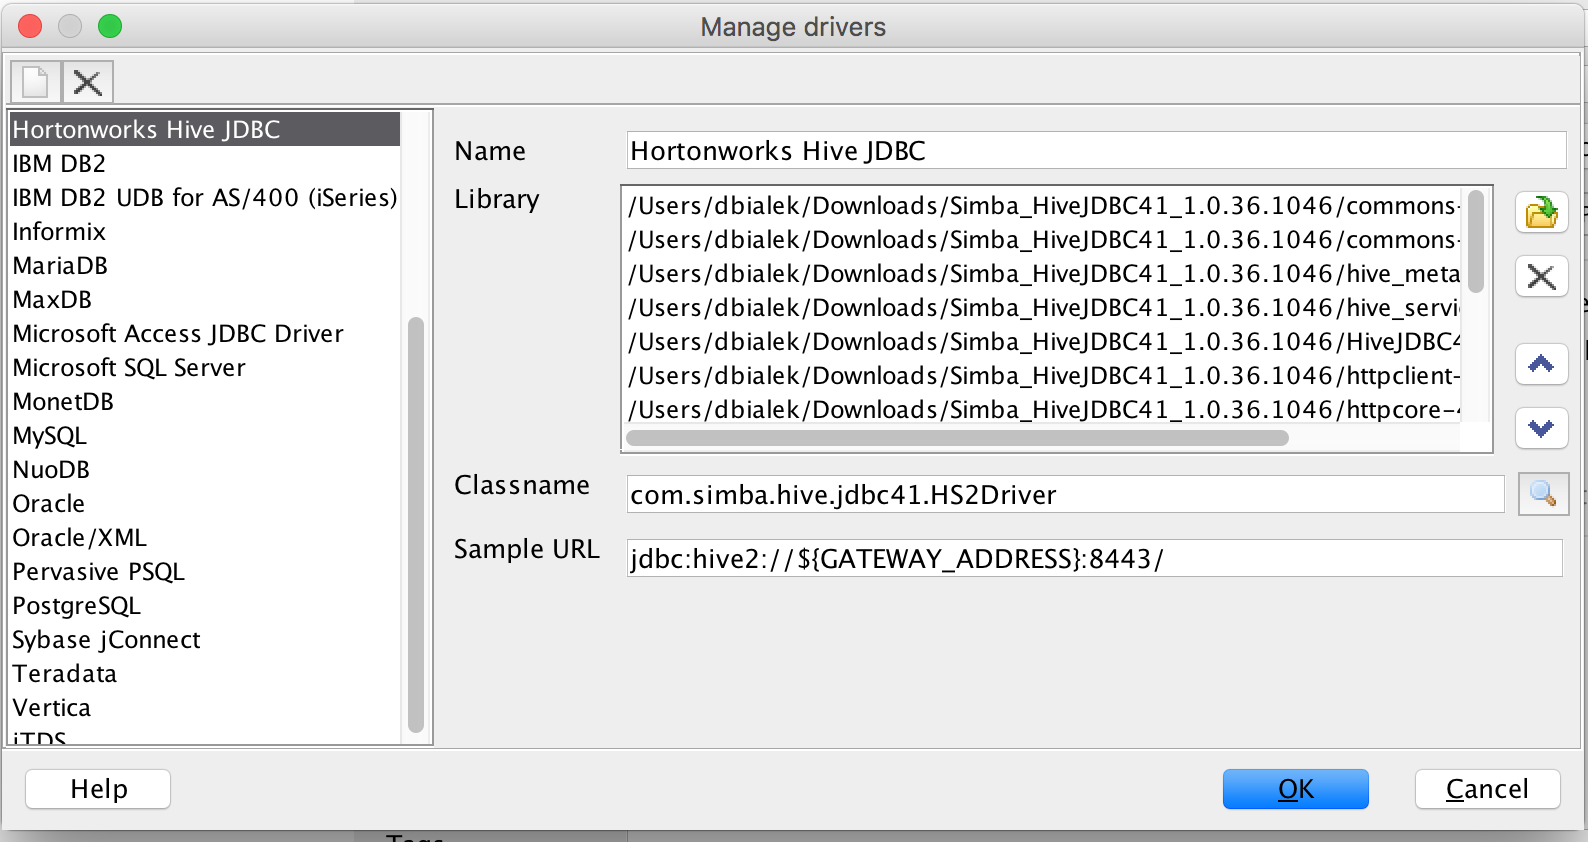
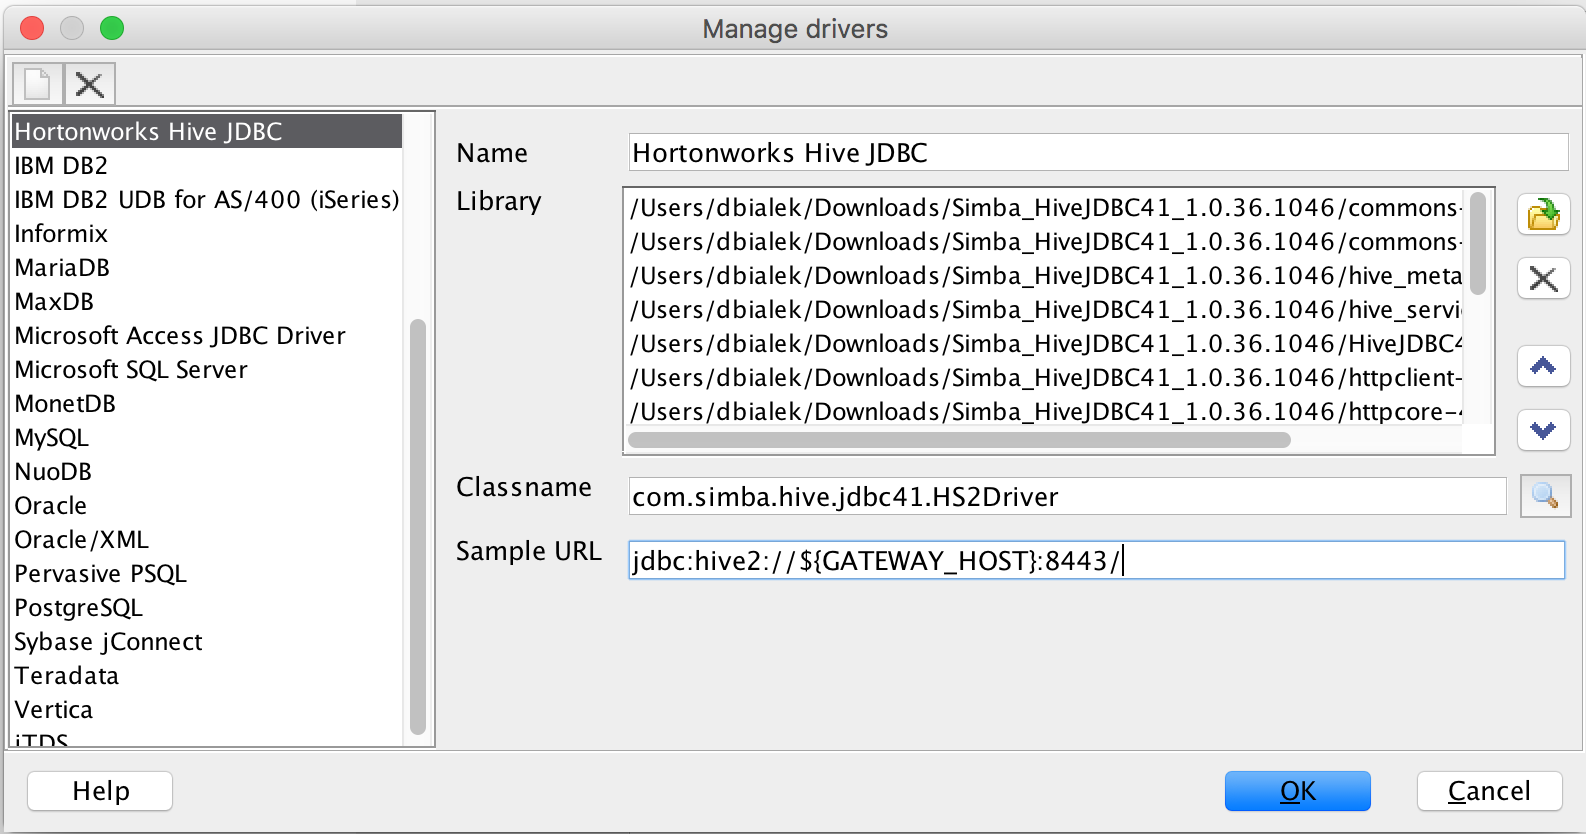
Add gateway section

Changed region(s): [[0.0, 0.0, 1.0, 1.0]]

diff --git a/docs/hive.md b/docs/hive.md
@@ -1,0 +1,135 @@
+## Using Hive
+
+Refer to this documentation if you are using Hive with  Cloudbreak-managed clusters.  
+
+### Accessing Hive via JDBC
+
+Hive can be accessed via JDBC through the [gateway](gateway.md) that is automatically installed and configured in your cluster. If your cluster configuration includes Hive LLAP, then Hive LLAP is configured with the gateway; otherwise, HiveServer2 is configured. In either case, the transport mode is “http” and the gateway path to Hive is `"${CLUSTER_NAME}/${TOPOLOGY-NAME}/hive"` (for example "test-cluster/db-proxy/hive").
+
+Before you can start using Hive JDBC, you must download the SSL certificate to your truststore. After downloading the SSL certificate, the Hive JDBC endpoint is:
+
+	jdbc:hive2://{GATEWAY_HOST}:8443/;ssl=true;sslTrustStore=gateway.jks;trustStorePassword={GATEWAY_JKS_PASSWORD};transportMode=http;httpPath={CLUSTER_NAME}/{TOPOLOGY_NAME}/hive
+	   
+
+
+#### Download SSL Certificate 
+
+By default, the gateway has been configured with a *self-signed certificate* to protect the Hive endpoint via SSL. Therefore, in order to use Hive via JDBC or Beeline client, you *must download the SSL certificate* from the [gateway](gateway.md) and add it to your truststore.
+
+On **Linux or OSX**, you can download the self-signed SSL certificate by using the following commands:
+
+    export GATEWAY_HOST=IP_OF_GATEWAY_NODE
+    export GATEWAY_JKS_PASSWORD=GATEWAY_PASSWORD
+    openssl s_client -servername ${GATEWAY_HOSTNAME} -connect ${GATEWAY_ADDRESS}:443 -showcerts </dev/null | openssl x509 -outform PEM > gateway.pem
+    keytool -import -alias gateway-identity -file gateway.pem -keystore gateway.jks -storepass ${GATEWAY_JKS_PASSWORD}
+
+<small>Where:<br>
+GATEWAY_HOST - Set this to the IP address of the instance on which gateway is running (Ambari server node).<br>
+GATEWAY_JKS_PASSWORD - Create a password for the truststore that will hold the *self-signed certificate*. The password must be at least 6 characters long.</small>
+
+For example:
+
+    export GATEWAY_HOST=2-52-86-252-73
+    export GATEWAY_JKS_PASSWORD=Hdcjks123!
+    openssl s_client -servername ${GATEWAY_HOST} -connect ${GATEWAY_HOST}:443 -showcerts </dev/null | openssl x509 -outform PEM > gateway.pem
+    keytool -import -alias gateway-identity -file gateway.pem -keystore gateway.jks -storepass ${GATEWAY_JKS_PASSWORD}
+    
+After executing these commands, **gateway.pem** and **gateway.jks** files will be downloaded onto your computer to the location where you ran the commands.
+
+
+Here are two examples of using tools to connect to Hive via JDBC:
+
+- [SQL Workbench/J](#example-sql-workbenchj)
+- [Tableau](#example-tableau)
+
+#### Example: SQL Workbench/J    
+
+[SQL Workbench/J](http://www.sql-workbench.net/) is a cross-platform SQL tool that can be used to access database systems. In this example, we will provide a high-level overview of the steps required to setup SQL Workbench to access Hive via JDBC.
+
+**Prerequisite:** [Download the SSL Certificate](#download-ssl-certificate) 
+
+**Step 1: Install SQL Workbench and Hive JDBC Driver**
+
+1. Download and install *SQL Workbench*. Refer to <a href="http://www.sql-workbench.net/getting-started.html" target="_blank">http://www.sql-workbench.net/getting-started.html</a>. 
+2. Download the *Hortonworks JDBC Driver for Apache Hive* from <a href="https://hortonworks.com/downloads/#addons" target="_blank">https://hortonworks.com/downloads/#addons</a>. Next, extract the driver package.  
+
+**Step 2: Configure SQL Workbench with Hive JDBC Driver**
+
+4. Launch SQL Workbench. 
+5. The **Select Connection Profile** window should be open by default. If it is not, you can open it from **File** > **Connect window**.  
+6.  Click **Manage Drivers**. The **Manage drivers** window will appear.
+6. Click <img src="../images/cb_sql-workbench-wb1.png" width="30"> to create a new driver, and enter the **Name**: “Hortonworks Hive JDBC”.
+7. Click <img src="../images/cb_sql-workbench-wb2.png"  width="35"> and then browse to the Hortonworks JDBC Driver for Apache Hive package that you downloaded earlier. Next, select the JDBC Driver JAR files in the package.
+8. When prompted, select the “com.simba.hive.jdbc41.HS2Driver” driver.  
+9. For the **Sample URL**, enter: `jdbc:hive2://${GATEWAY_HOST}:8443/`  
+10. After performing these steps, your configuration should look similar to: 
+
+    <a href="../images/cb_sql-workbench01.png" target="_blank" title="click to enlarge"><img src="../images/cb_sql-workbench01.png" width="650" title="SQL Workbench Configuration"></a> 
+
+10. Click **OK** to save the driver.  
+
+**Step 2: Create a Connection to Hive**
+
+1. From the **Select Connection Profile** window, select the “Hortonworks Hive JDBC" from the **Driver** dropdown.  
+2. For **URL** , enter the URL to the cluster instance where gateway is instlaled, such as `jdbc:hive2://52.52.98.57:8443/` (where `52.52.98.57` is the public hostname of your gateway node).  
+3. For **Username** and **Password**, enter the credentials that you created when creating your cluster.
+4. Click **Extended Properties** and add the following properties:
+
+    | Property | Value |
+    |---|---|
+    | ssl | *1* |
+    | transportMode | *http* |
+    | httpPath | Provide `"${CLUSTER_NAME}/${TOPOLOGY-NAME}/hive"`. For example `hive-test/db-proxy/hive` |
+    | sslTrustStore | Enter the path to the **gateway.jks** file. This file was generated when you [downloaded the SSL certificate](#download-ssl-certificate). |
+    | trustStorePassword | Enter the GATEWAY_JKS_PASSWORD that you specified when you [downloaded the SSL certificate](#download-ssl-certificate). |
+    
+    After performing these steps, your configuration should look similar to:
+    
+    <a href="../images/cb_sql-workbench02.png" target="_blank" title="click to enlarge"><img src="../images/cb_sql-workbench02.png" width="650" title="SQL Workbench Configuration"></a> 
+
+5. Click **OK** to save the properties.
+6. Click **Test** to confirm a connection can be established.
+7. Click **OK** to make the connection and start using SQL Workbench to query Hive.
+
+
+#### Example: Tableau
+
+[Tableau](https://www.tableau.com/) is a business intelligence tool for interacting with and visualizing data via SQL. Connecting Tableau to Hive requires the use of an ODBC driver. In this example, we will provide high-level steps required to set up Tableau to access Hive.
+
+**Prerequisite:** [Download the SSL Certificate](#download-ssl-certificate)  
+
+**Step 1: Install ODBC Driver**
+
+1. Download the *Hortonworks ODBC Driver for Apache Hive* from <a href="https://hortonworks.com/downloads/#addons" target="_blank">https://hortonworks.com/downloads/#addons</a>.    2. Next, extract and install the driver.  
+
+**Step 2: Launch Tableau and Connect to Hive**
+
+1. Launch Tableau. If you do not already have Tableau, you can download a trial version from <a href="https://www.tableau.com/trial/download-tableau" target="_blank">https://www.tableau.com/trial/download-tableau</a>.
+2. In Tableau, create a connection to a “Hortonworks Hadoop Hive” server. Enter the following:
+    
+    | Property | Value |
+    |---|---|
+    | Server | Enter the public hostname of your controller node instance. |
+    | Port | *8443* |
+    | Type | *HiveServer2* |
+    | Authentication | *Username and Password* |
+    | Transport | *HTTP* |
+    | Username | Enter the cluster username created when creating your cluster |
+    | Password | Enter the cluster password created when creating your cluster |
+    | HTTP Path | Provide `"${CLUSTER_NAME}/${TOPOLOGY-NAME}/hive"`. For example `hive-test/db-proxy/hive` |
+    
+3. Check the **Require SSL** checkbox.  
+4. Click on the text underneath the checkbox to **add a configuration file** link.  
+5. Specify to use a custom SSL certificate, and then browse to the SSL certificate **gateway.pem** file that was generated when you [downloaded the SSL certificate](#download-ssl-certificate) as a prerequisite. 
+
+    <a href="../images/cb_tableau01.png" target="_blank" title="click to enlarge"><img src="../images/cb_tableau01.png" width="375" title="Tableau Configuration"></a> 
+
+6. Click **OK**.  
+
+    After performing these steps, your configuration should look similar to:
+    
+    <a href="../images/cb_tableau02.png" target="_blank" title="click to enlarge"><img src="../images/cb_tableau02.png" width="375" title="Tableau Configuration"></a> 
+    
+6. Click **Sign In** and you will be connected to Hive.  
+   
+    

diff --git a/docs/gateway.md b/docs/gateway.md
@@ -1,3 +1,84 @@
-## Configuring the gateway
+## Configuring a gateway
 
-TBD
+When creating a cluster, Cloudbreak installs and configures a gateway, powered by [Apache Knox](https://knox.apache.org/), to protect access to the cluster resources:
+
+* This gateway is installed on the same host as the Ambari server.  
+* By default, transport layer security on the gateway endpoint is via a *self-signed SSL certificate* on port 8443. This is illustrated on the following diagram:   
+    
+    <a href="../images/cb_gateway.png" target="_blank" title="click to enlarge"><img src="../images/cb_gateway.png" width="650" title="Cluster Information"></a> 
+
+* The cluster resources that are accessible through the gateway are determined by the settings provided on the **Gateway Configuration** page of the basic create cluster wizard.  
+* By default, the gateway is deployed and *Ambari* is proxied through the gateway.  
+* The choice of cluster services to expose and proxy through the gateway depends on your blueprint. Cloudbreak analyzes your blueprint and provides a list of services that can be exposed through the gateway. You should review this list and select the services that should be proxied through the gateway.  
+
+### Services available via gateway 
+
+The following cluster resources are available for access via the gateway endpoint:
+
+| Cluster resource | URL | 
+|---|---|
+| Ambari | https://{gateway-host}:8443/{cluster-name}/{topology-name}/ambari/ |
+| Hive and Hive Server Interactive<sup>*</sup> | https://{gateway-host}:8443/{cluster-name}/{topology-name}/hive/ |
+| Job History Server | https://{gateway-host}:8443/{cluster-name}/{topology-name}/jobhistory/ |
+| Name Node | https://{gateway-host}:8443/{cluster-name}/{topology-name}/hdfs/ |
+| WebHDFS | https://{gateway-host}:8443/{cluster-name}/{topology-name}/webhdfs/ |
+| Resource Manager | https://{gateway-host}:8443/{cluster-name}/{topology-name}/yarn/ |
+| Spark History Server | https://{gateway-host}:8443/{cluster-name}/{topology-name}/sparkhistory/ |
+| Zeppelin | https://{gateway-host}:8443/{cluster-name}/{topology-name}/zeppelin/ |
+
+<sup>*</sup> Refer to [Accessing Hive via JDBC](hive.md#accessign-hive-via-jdbc) for more information.
+
+The following applies:
+
+* The `gateway-host` is the IP address or hostname of the Ambari server node.  
+* The `cluster-name` is the name of the cluster.  
+* The `topology-name` is the name of the gateway topology that you entered when creating the cluster. By default this is set to `db-proxy`.    
+
+
+### Configure a gateway 
+
+When creating a cluster, you can configure the gateway on the **Gateway Configuration** page of the basic create cluster wizard. 
+
+**Steps**
+
+1. In the create cluster wizard, navigate to the **Gateway Configuration** page: 
+
+    <a href="../images/cb_cb-gateway01.png" target="_blank" title="click to enlarge"><img src="../images/cb_cb-gateway01.png" width="650" title="Cluster Information"></a>  
+    
+    
+2. Under **Gateway Topology**:
+
+    * The gateway option is enabled by default.  
+    * The **Name** for your gateway is set to `db-proxy` by default. You can update it if you would like. This name is used in the URLs for the cluster resources, as described in [Services available via gateway](#services-available-via-gateway). 
+    * Under **Exposable Services**, the choice of cluster services to expose and proxy through the gateway depends on your blueprint. Cloudbreak analyzes your blueprint and provides a list of services that can be exposed through the gateway. You should review this list and select the services that should be proxied through the gateway. By default, only Ambari is exposed through the gateway.  
+
+3. Under **Exposable Services**, use the dropdown to select services that should be exposed via the gateway. To expose a service, select it and click **Expose**. Select **ALL** to expose all. 
+
+
+### Obtain URLs for cluster resources 
+
+Once your cluster is running, you can obtain Ambari URL and the URLs of the cluster services from the **Gateway** tab in the cluster details:
+
+> This tab is only available when gateway is enabled. 
+
+<a href="../images/cb_cb-gateway02.png" target="_blank" title="click to enlarge"><img src="../images/cb_cb-gateway02.png" width="650" title="Cluster Information"></a>
+
+The URL structure is as described in [Services available via gateway](#services-available-via-gateway).
+
+
+### Configure single sign-on (SSO) 
+
+When creating a cluster, if you selected to configure a gateway, on the advanced **Gateway Configuration** page of the advanced create cluster wizard, you can also configure the gateway to be the SSO identity provider. 
+
+> This option is technical preview. 
+
+**Prerequisites**
+
+You must have an existing authentication source (LDAP or AD) and register it with Cloudbreak, as described in [Using an external authentication source for clusters](external-ldap.md). 
+
+**Steps**
+
+1. In the create cluster wizard, select the advanced mode.  
+1. On the **External Sources** page, under **Configure Authentication**, select to attach a previously configured LDAP to the cluster.  
+2. On the **Gateway Configuration** page, under **Single Sign On (SSO)**, click the toggle button to enable SSO.
+

diff --git a/docs/common/create-a3-1b.md b/docs/common/create-a3-1b.md
@@ -2,7 +2,7 @@
 
     When creating a cluster, Cloudbreak installs and configures a gateway (powered by Apache Knox) to protect access to the cluster resources. By default, the gateway is enabled for Ambari; You can optionally enable it for other cluster services. 
     
-    For more information, refer to [Gateway](???) documentation.
+    For more information, refer to [Configuring the Gateway](gateway.md) documentation.
 
 6. On the **Network** page, provide the following to specify the networking resources that will be used for your cluster:
 
